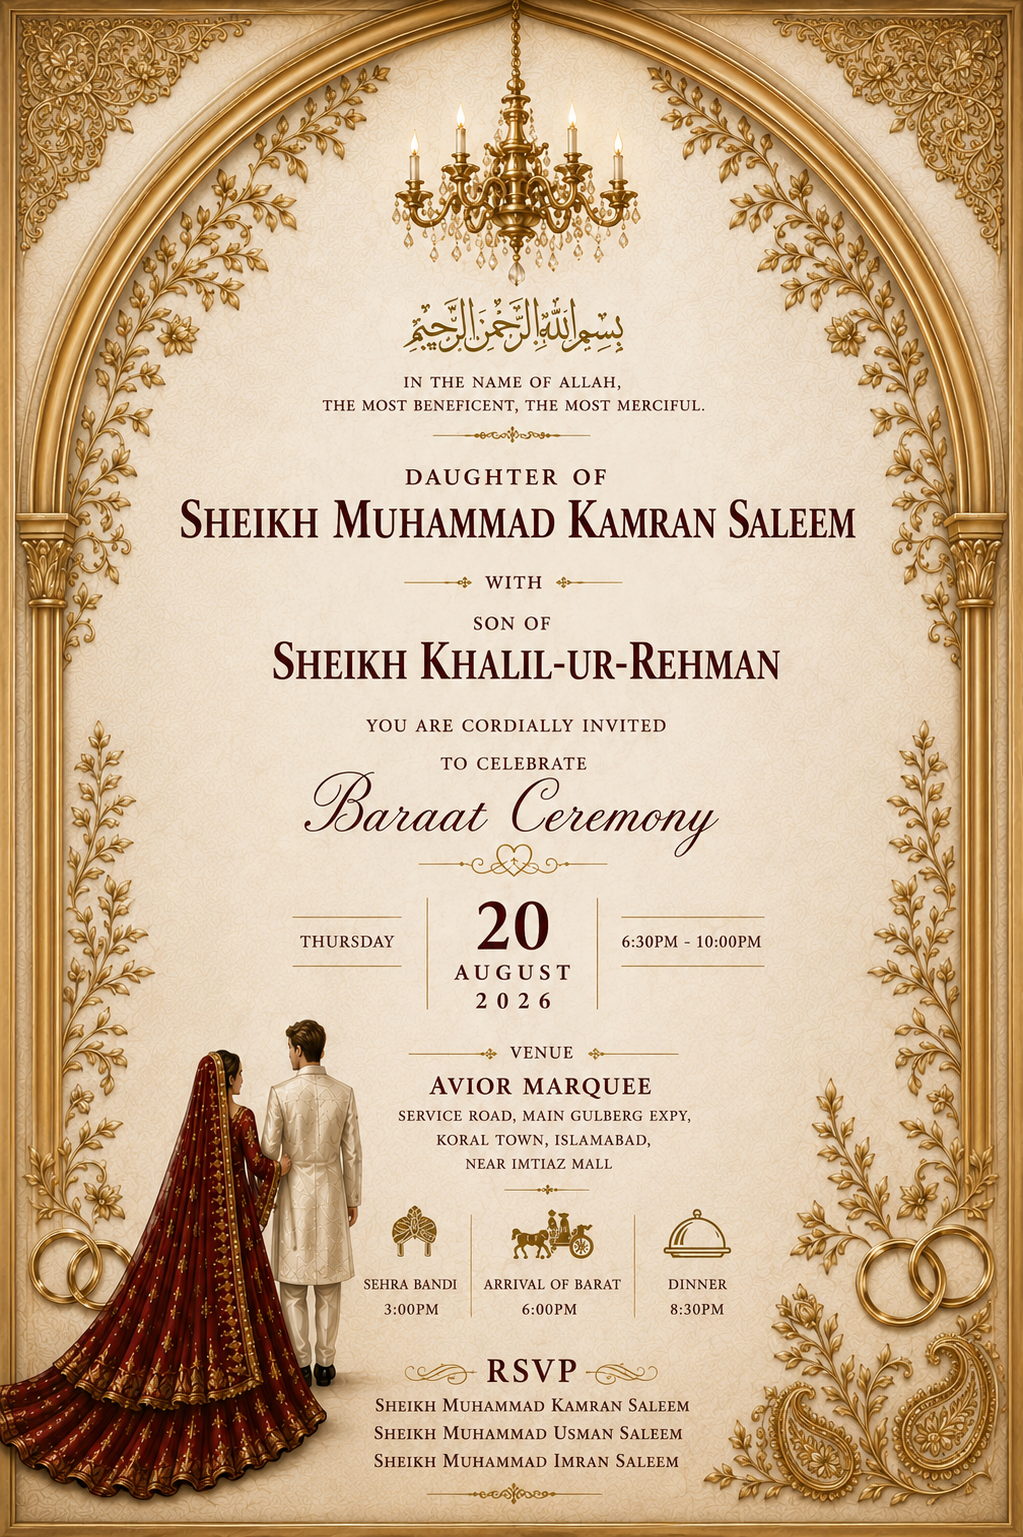
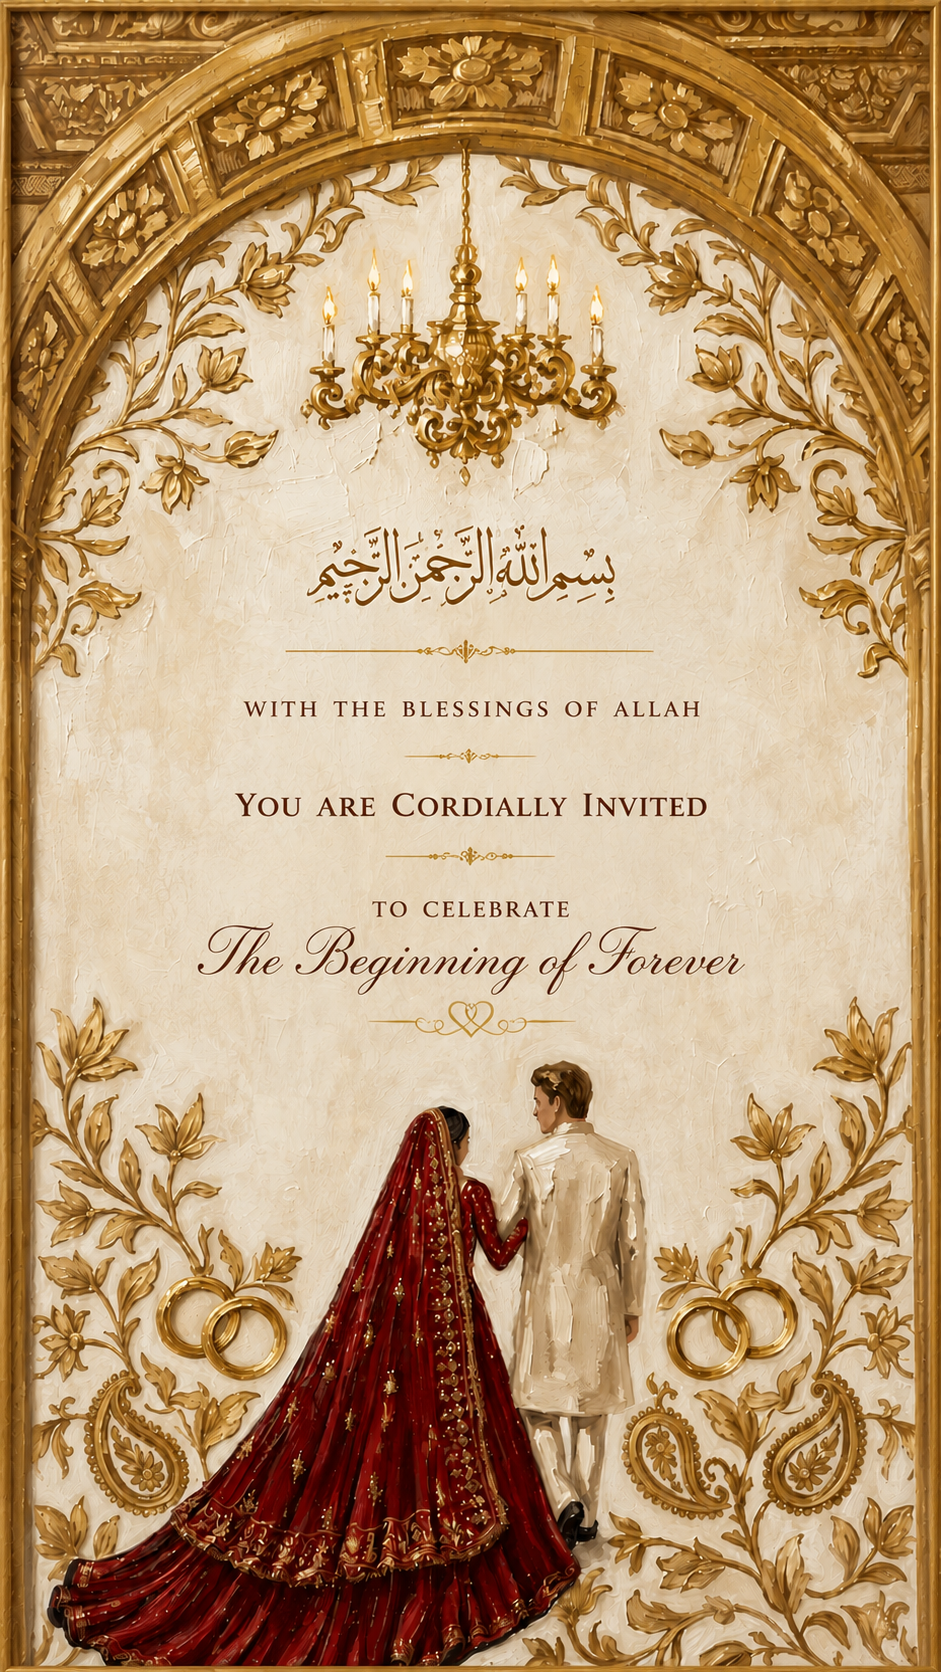
Updated wedding invitation

diff --git a/style.css b/style.css
@@ -57,7 +57,7 @@ body.lock-scroll{
     height:100vh;
 }
 
-.start-card-section{
+/* .start-card-section{
     position:relative;
     width:100%;
     height:100vh;
@@ -70,6 +70,166 @@ body.lock-scroll{
     height:100%;
 
     object-fit:cover;
+
+} */
+/* .start-card-section{
+    position:relative;
+    width:100%;
+    min-height:100vh;
+    overflow:hidden;
+    display:flex;
+    justify-content:center;
+    align-items:center;
+    background:#faf7f2;
+}
+
+.start-card-section img{
+    width:100%;
+    height:auto;
+    display:block;
+    object-fit:contain;
+} */
+/* 
+.start-card-section {
+    position: relative;
+    width: 100%;
+    min-height: 100vh;
+    height: auto;
+    overflow: hidden;
+    display: flex;
+    justify-content: center;
+    align-items: flex-start;
+}
+
+.start-card-section img {
+    width: 100%;
+    height: auto;
+    display: block;
+    object-fit: contain;
+} */
+
+
+/* .start-card-section {
+    position: relative;
+    width: 100%;
+    height: auto;
+    overflow: hidden;
+}
+
+.start-card-section img {
+    width: 100%;
+    height: auto;
+    display: block;
+}
+
+
+.scroll-indicator {
+    position: absolute;
+    bottom: 22px;
+    left: 50%;
+    transform: translateX(-50%);
+    z-index: 10;
+
+    display: flex;
+    flex-direction: column;
+    align-items: center;
+
+    color: #ffffff;
+    text-shadow: 0 2px 6px rgba(0,0,0,.7);
+
+    pointer-events: none;
+}
+
+.scroll-indicator span {
+    font-family: 'Marcellus', serif;
+    font-size: 11px;
+    letter-spacing: 3px;
+    white-space: nowrap;
+}
+
+.scroll-arrow {
+    font-size: 28px;
+    line-height: 1;
+    margin-top: 4px;
+
+    animation: scrollBounce 1.6s infinite;
+}
+
+@keyframes scrollBounce {
+    0%, 100% {
+        transform: translateY(0);
+    }
+
+    50% {
+        transform: translateY(9px);
+    }
+} */
+
+
+.start-card-section {
+    position: relative;
+    width: 100%;
+    height: auto;
+    overflow: hidden;
+}
+
+.start-card-section img {
+    width: 100%;
+    height: auto;
+    display: block;
+}
+
+/* Elegant Scroll Arrow */
+.scroll-arrow {
+    position: absolute;
+    left: 50%;
+    bottom: 2.5%;
+
+    transform: translateX(-50%);
+
+    font-family: Arial, sans-serif;
+    font-size: 34px;
+    font-weight: 300;
+
+    color: #c49a45;
+
+    text-shadow:
+        0 0 4px rgba(196, 154, 69, 0.7),
+        0 0 10px rgba(196, 154, 69, 0.35);
+
+    opacity: 0;
+
+    pointer-events: none;
+
+    animation: elegantScrollArrow 2.8s ease-in-out infinite;
+}
+
+@keyframes elegantScrollArrow {
+
+    0% {
+        opacity: 0;
+        transform: translate(-50%, -4px);
+    }
+
+    25% {
+        opacity: 0.85;
+        transform: translate(-50%, 0);
+    }
+
+    50% {
+        opacity: 0.95;
+        transform: translate(-50%, 6px);
+    }
+
+    75% {
+        opacity: 0.35;
+        transform: translate(-50%, 10px);
+    }
+
+    100% {
+        opacity: 0;
+        transform: translate(-50%, 15px);
+    }
 
 }
 

diff --git a/index.html b/index.html
@@ -52,14 +52,35 @@
 
 <!-- ================= MAIN CONTENT ================= -->
 
-<main id="mainContent">
+<!-- <main id="mainContent">
 
     <section class="start-card-section">
 
     <img src="assets/startcard.png" alt="Invitation">
 
-</section>
+</section> -->
+
+<!-- <section class="start-card-section">
+
+    <img src="assets/startcard.png" alt="Invitation">
+
+    <div class="scroll-indicator">
+        <span>SCROLL TO EXPLORE</span>
+        <div class="scroll-arrow">↓</div>
+    </div>
+
+</section> -->
       
+<section class="start-card-section">
+
+    <img src="assets/startcard.png" alt="Invitation">
+
+    <div class="scroll-arrow">
+        ↓
+    </div>
+
+</section>
+
 
 <section class="section intro">
 
